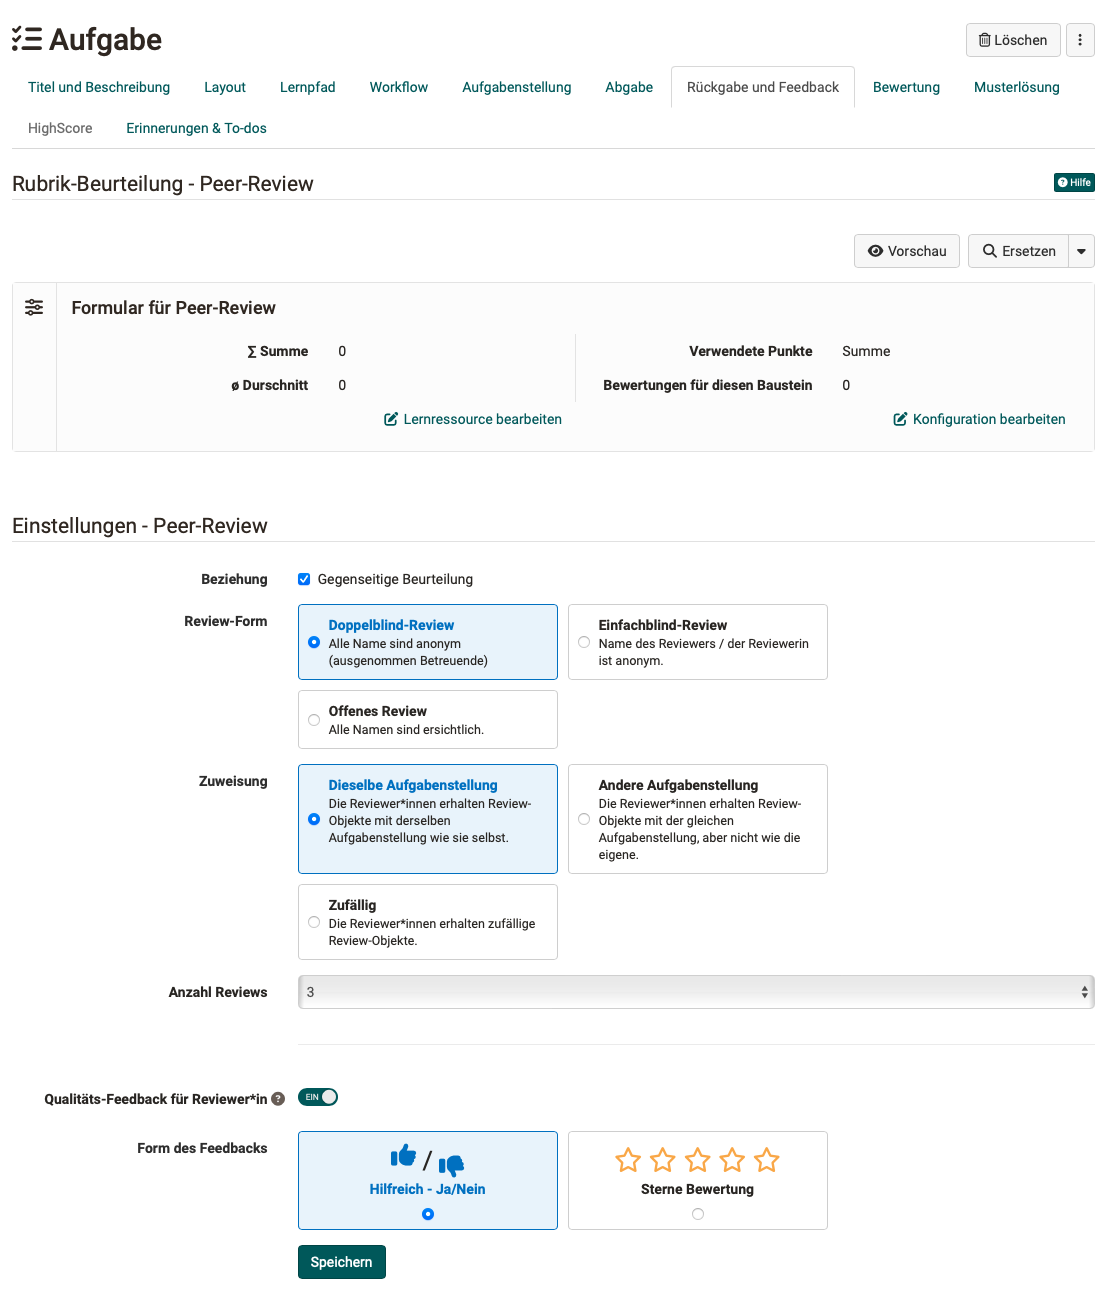
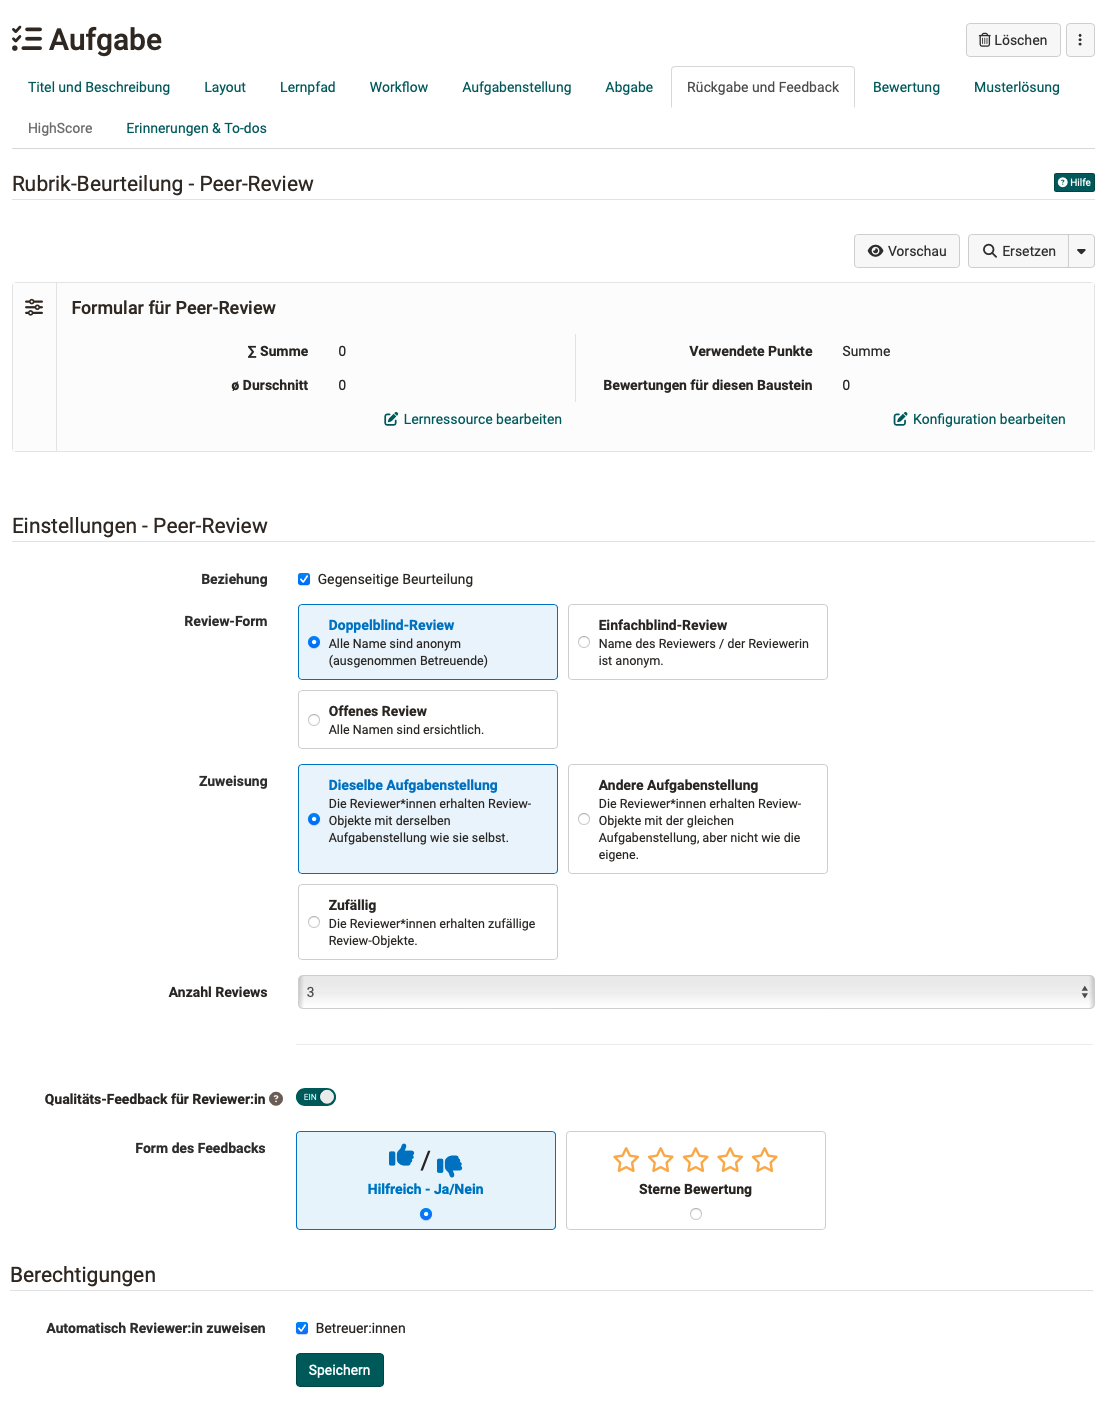
BenutzerHB: Update Peer-Review

diff --git a/sites/manual_user/docs/learningresources/Course_Element_Task.de.md b/sites/manual_user/docs/learningresources/Course_Element_Task.de.md
@@ -22,7 +22,7 @@ Die Erstellung und Konfiguration einer Aufgabe erfolgt wie bei allen Kursbaustei
 
 ![course_element_task_tabs_v1_de.png](assets/course_element_task_tabs_v1_de.png){ class="shadow lightbox"}
 
-!!! note "Quick Links"
+!!! note "Quick Links: Aufgabe erstellen (Perspektive Autor:in)"
 
     * [Tab Titel und Beschreibung](#title)<br> Allgemeine Angaben über den Kursbaustein
     * [Tab Layout](#layout)<br>Allgemeine Einstellungen im Layout
@@ -41,14 +41,16 @@ Die Erstellung und Konfiguration einer Aufgabe erfolgt wie bei allen Kursbaustei
 
 Die Angaben über den Kursbaustein entsprechen denen, wie sie in allen Kursbausteinen enthalten sind. 
 
-[nach oben ^](#create_task)
+[nach oben (Perspektive Autor:in) ^](#create_task)<br>
+[Seitenanfang ^](#course_element_task)
 
 
 ### Tab "Layout“  {: #layout}
 
 Die Optionen zum Layout entsprechen denen, wie sie in allen Kursbausteinen enthalten sind. 
 
-[nach oben ^](#create_task)
+[nach oben (Perspektive Autor:in) ^](#create_task)<br>
+[Seitenanfang ^](#course_element_task)
 
 
 ### Tab "Lernpfad“ {: #learningpath}
@@ -76,7 +78,8 @@ Im Tab "Lernpfad" wird auch definiert, welches Kriterium erfüllt sein muss, dam
 * **Bestanden**: Der User hat die im Tab "Bewertung" konfigurierten Anforderungen an "Bestanden" erfüllt bzw. die Aufgabe wurde manuell vom Betreuer auf bestanden gesetzt.
 * **Durchführung erledigt**: Alle Schritte des Aufgabenflows wurden durchlaufen.
 
-[nach oben ^](#create_task)
+[nach oben (Perspektive Autor:in) ^](#create_task)<br>
+[Seitenanfang ^](#course_element_task)
 
 
 
@@ -119,7 +122,8 @@ Die differenzierte Zuordnung der Personen erfolgt allerdings bei geschlossenem K
 
     Wird jedoch z.B. die Aufgabenstellung nachträglich hinzugefügt und ein/e Teilnehmer:in ist im persönlichen Workflow bereits weiter fortgeschritten, so muss nachträglich keine Aufgabe mehr ausgewählt werden.  
 
-[nach oben ^](#create_task)
+[nach oben (Perspektive Autor:in) ^](#create_task)<br>
+[Seitenanfang ^](#course_element_task)
 
 
 ### Tab "Aufgabenstellung“  {: #assignment}
@@ -161,7 +165,8 @@ Es folgt keine automatische Änderung. Der Teilnehmer erhält nun aber die Mögl
 
 ![Daten zurücksetzen User](assets/Aufgabe_User_Daten_zurücksetzen.png)
 
-[nach oben ^](#create_task)
+[nach oben (Perspektive Autor:in) ^](#create_task)<br>
+[Seitenanfang ^](#course_element_task)
 
 
 
@@ -200,7 +205,8 @@ Darüber hinaus können Sie auch die minimale und maximale Anzahl von Dokumenten
 
 Aktivieren Sie die E-Mail Bestätigung damit Personen, die eine Aufgabe abgegeben haben eine entsprechende E-Mail erhalten. Der vorformulierte E-Mailtet kann bei Bedarf weiter angepasst werden. 
 
-[nach oben ^](#create_task)
+[nach oben (Perspektive Autor:in) ^](#create_task)<br>
+[Seitenanfang ^](#course_element_task)
 
 
 
@@ -228,9 +234,11 @@ Auch eine Rückmeldung an die Reviewer:innen kann ermöglicht werden (Hilfreich?
 
 ![course_element_task_fb_v1_de.png](assets/course_element_task_fb_v1_de.png){ class="shadow lightbox" }
 
+Damit neben Kursbesitzer:innen auch Betreuer:innen die automatische Reviewer-Zuweisung auslösen können, muss die entsprechende Option im Tab "Rückgabe und Feedback", Abschnitt "Berechtigungen" gewählt werden.
 
 
-[nach oben ^](#create_task)
+[nach oben (Perspektive Autor:in) ^](#create_task)<br>
+[Seitenanfang ^](#course_element_task)
 
 
 
@@ -254,7 +262,8 @@ Optional können sie noch die Möglichkeit für individuelle Kommentare oder ind
 #### Hinweise
 Wenn Sie die erweiterte Konfiguration aufklappen stehen noch weitere Konfigurationen zur Verfügung. Hier können Sie noch Hinweistexte für alle Lernenden und/oder für alle Betreuenden hinterlegen. 
 
-[nach oben ^](#create_task)
+[nach oben (Perspektive Autor:in) ^](#create_task)<br>
+[Seitenanfang ^](#course_element_task)
 
 
 
@@ -278,7 +287,8 @@ Per Voreinstellung ist die Musterlösung erst sichtbar, wenn die vom Teilnehmer 
 
     Sollen die Teilnehmenden vorab bereits Hilfestellungen zur Bearbeitung der Aufgabe erhalten, laden Sie diese zusammen mit der Aufgabenstellung als ZIP-Dokument hoch oder nutzen Sie die das Mitteilungsfeld (siehe Tab "Aufgabenstellung").
 
-[nach oben ^](#create_task)
+[nach oben (Perspektive Autor:in) ^](#create_task)<br>
+[Seitenanfang ^](#course_element_task)
 
 
 
@@ -294,7 +304,8 @@ Voraussetzung ist, dass für die Aufgabe im Tab "Bewertung" die Vergabe von Punk
 
 Weitere Informationen zu diesem Tab, der in den meisten Assessment Kursbausteinen zur Verfügung steht, finden Sie [hier](../learningresources/Course_Elements.de.md).
 
-[nach oben ^](#create_task)
+[nach oben (Perspektive Autor:in) ^](#create_task)<br>
+[Seitenanfang ^](#course_element_task)
 
 
 
@@ -312,7 +323,8 @@ Weitere Informationen zu To-dos finden Sie [hier](../basic_concepts/To_Dos_Basic
 
     Ob auch Betreuende To-dos bearbeiten dürfen wird in den Einstellungen der Kurs-Administration definiert. Gehen Sie dafür in den Tab "Optionen" und aktivieren Sie den entsprechenden Haken.
     
-  [nach oben ^](#create_task)
+[nach oben (Perspektive Autor:in) ^](#create_task)<br>
+[Seitenanfang ^](#course_element_task)
 
 
 !!! info "Hinweis"
@@ -322,18 +334,31 @@ Weitere Informationen zu To-dos finden Sie [hier](../basic_concepts/To_Dos_Basic
 
 ---
 
-## Aufgabe erledigen (Perspektive Kursteilnehmer:in)
+## Aufgabe erledigen (Perspektive Kursteilnehmer:in)  {: #process_task}
 
 Alle Schritte einer Aufgabe (Workflow) zeigen sich für Kursteilnehmer:innen direkt im Kursbaustein, je nach Konfiguration des Kursbausteins. Nach Erledigung eines Schrittes wird der nächste Schritt angezeigt und zugänglich.
  
 ![course_element_task_participant_view1_v1_de.png](assets/course_element_task_participant_view1_v1_de.png){ class="shadow lightbox" }
 
 
-!!!in  "Tipp"
+!!! note "Quick Links: Aufgabe erledigen (Perspektive Kursteilnehmer:in)"
+
+    * [Zugewiesene Aufgabe herunterladen](#process_task_download)
+    * [Lösung abgeben](#process_task_solution)
+    * [Rückgabe und Feedback](#process_task_feedback)
+    * [Ergebnisse des Peer-Reviews ansehen](#process_task_view_reviews)
+    * [Aufgabe überarbeiten](#process_task_rework)
+    * [Musterlösung betrachten](#process_task_view_example)
+    * ["Bewertung" des Betreuers lesen](#process_task_view_coach_assessment)
+    
+
+!!! info  "Tipp"
 
     Abonnieren Sie den jeweiligen Aufgabenbaustein um schnell per Mail über Änderungen informiert zu werden.
 
-### Zugewiesene Aufgabe herunterladen
+
+
+### Zugewiesene Aufgabe herunterladen {: #process_task_download}
 
 Je nach Konfiguration stehen im Schritt **"Zuweisung Aufgabenstellung"** eine oder mehrere Aufgaben zur Auswahl oder eine Aufgabe wird Ihnen automatisch zugewiesen. Wenn bei mehreren Aufgaben der Titel der Aufgabendatei verlinkt ist, können Sie die Aufgabenstellung vor der Auswahl ansehen. Wenn Sie nur die Schaltfläche "Wählen" haben, können Sie die Aufgabe nicht im Vorfeld ansehen. Eine automatische Zuweisung einer Aufgabe erfolgt direkt sobald Sie die Aufgabe vor Ablauf einer eventuellen Abgabedeadline anklicken.
 
@@ -341,7 +366,11 @@ Wenn Sie eine Aufgabe gewählt haben oder Ihnen eine Aufgabe automatisch zugewie
 
 Es ist auch möglich, dass Ihre Lehrperson die Aufgabenstellung nicht in dem Kursbaustein "Aufgabe" hinterlegt hat, sondern einen anderen Ort z.B. einen anderen Kursbaustein, einer HTML-Seite,  eine externe Webseite gewählt hat oder die Aufgabenstellung mündlich in Präsenz oder in einem Online-Meeting gestellt hat. In diesem Fall erscheint der Abschnitt "Zuweisung Aufgabenstellung" nicht.
 
-### Lösung abgeben
+[nach oben (Perspektive Kursteilnehmer:in) ^](#process_task)<br>
+[Seitenanfang ^](#course_element_task)
+
+
+### Lösung abgeben {: #process_task_solution}
 
 Im Bereich **"Abgabe"** haben Sie die Möglichkeit Ihre Lösung einzureichen. Je nach Konfiguration durch die Lehrperson können sie entweder Dokumente hochladen, Dateien mit dem OpenOlat Editor erstellen oder auch  kurze Audio- und Video-Aufnahmen direkt in OpenOlat erstellen.  
 
@@ -352,7 +381,11 @@ Laden Sie Ihre Lösung hoch bzw. erstellen Sie sie direkt in OpenOlat und das Do
 
 Im Abgabe-Schritt, der nun mit einem grünen Häkchen als erledigt markiert wird, erhalten Sie eine Übersicht über abgegebenen Dateien. Sie können sich die Dateien zwar noch ansehen aber keine Änderungen mehr vornehmen.
 
-### Rückgabe und Feedback 
+[nach oben (Perspektive Kursteilnehmer:in) ^](#process_task)<br>
+[Seitenanfang ^](#course_element_task)
+
+
+### Rückgabe und Feedback {: #process_task_feedback}
 
 Wenn Sie noch _keine_ Einreichung vorgenommen haben, und der Betreuer keine Rückmeldung bereitgestellt hat, ist dieser Bereich leer.
 
@@ -368,37 +401,77 @@ Wenn Ihre Bearbeitung nicht ausreichend war und der Betreuer eine Überarbeitung
 
 ![Info: Die Abgabe wurde zur Überarbeitung zurückgewiesen](assets/Aufgabe_Rueckgabe_Feedback_zurueckgewiesen.png)
 
+[nach oben (Perspektive Kursteilnehmer:in) ^](#process_task)<br>
+[Seitenanfang ^](#course_element_task)
 
-### Ergebnisse des Peer-Reviews ansehen
+
+### Ergebnisse des Peer-Reviews ansehen {: #process_task_view_reviews}
 
 Wurde ein Peer-Review vorgesehen, sehen Sie eine Übersicht über Ihre vergebenen und erhaltenen Beurteilungen.
 
 ![course_element_task_participant_peer1_v1_de.png](assets/course_element_task_participant_peer1_v1_de.png){ class="shadow lightbox" }
 
+[nach oben (Perspektive Kursteilnehmer:in) ^](#process_task)<br>
+[Seitenanfang ^](#course_element_task)
 
 
-### Aufgabe überarbeiten
+### Aufgabe überarbeiten {: #process_task_rework}
 
 Wenn Sie eine Überarbeitung vornehmen müssen, gehen Sie wie unter "Lösung abgeben" (Abgabe) erläutert vor. Im Abschnitt **"Überarbeitung"** kann es auch sein, dass Ihr Betreuer Ihnen Ihre Arbeit mehrfach zur Korrektur zurückgibt.
 
 Sobald der Betreuer die Aufgabe als gelöst ansieht, wird er die Überarbeitungsperiode schliessen. Zu jedem Zeitpunkt sehen Sie welche Dokumente von Ihnen und Ihrem Betreuer abgegeben wurden und können diese einsehen.
 
-### Musterlösung betrachten
+[nach oben (Perspektive Kursteilnehmer:in) ^](#process_task)<br>
+[Seitenanfang ^](#course_element_task)
+
+
+### Musterlösung betrachten {: #process_task_view_example}
 
 Ihr Dozent kann der Aufgabe eine **Musterlösung** anfügen, welche zu einem von ihm festgelegten Zeitpunkt sichtbar wird, aber immer erst _nachdem_ ihre Lösung vom Betreuer akzeptiert wurde. Klicken Sie auf den Dateinamen bzw. den Button "Musterlösungen herunterladen", um die Musterlösung anzuschauen oder herunterzuladen.
 
-### "Bewertung" des Betreuers lesen
+[nach oben (Perspektive Kursteilnehmer:in) ^](#process_task)<br>
+[Seitenanfang ^](#course_element_task)
+
+
+### "Bewertung" des Betreuers lesen {: #process_task_view_coach_assessment}
 
 Der Bereich **Bewertung** umfasst zum einen automatisch generierte Informationen der Leistungsübersicht mit Status,  Punktestand, Einstufung der gewählten Bewertungsskala, je nach Konfiguration des Kursbausteins. Zum anderen können Betreuende in dem Bereich Bewertung ein Feedback im Kommentarfeld sowie (Bewertungs-)dokumente hinterlegen. 
 
 ![Bewertung User Sicht](assets/Aufgabe_Bewertung_TN.png)
 
+[nach oben (Perspektive Kursteilnehmer:in) ^](#process_task)<br>
+[Seitenanfang ^](#course_element_task)
+
+
 ---
 
-## Aufgaben betreuen (Perspektive Betreuer:in)
+## Aufgaben betreuen (Perspektive Betreuer:in) {: #coach_task}
 
 
-### Peer-Review betreuen {: #coach_peer_review}
+!!! note "Quick Links: Aufgaben betreuen (Perspektive Betreuer:in)"
+
+    * [Regeln eines Peer-Reviews](#coach_task_peer_review_rules)
+    * [Peer-Review betreuen](#coach_task_peer_review)
+    * [Manuelle Zuweisung von Reviewer:innen](#coach_task_peer_review_assign_manually)
+    * [Automatische Zuweisung von Reviewer:innen](#coach_task_peer_review_assign_automatically)
+
+
+
+### Regeln eines Peer-Reviews {: #coach_task_peer_review_rules}
+
+Bei einem Peer-Review geben sich die Teilnehmer:innen eines Kurses gegenseitig ein Feedback oder eine Bewertung. Das Feedback kann allgemeiner Art sein (z.B. in einem Textfeld) oder zusätzlich auch eine Bewertung mit Punkten umfassen.
+
+Dabei muss nicht von jedem/jeder Teilnehmer:in ein Review aller anderen Teilnehmer:innen gemacht werden. Es kann bestimmt werden, für wieviele andere Personen ein Review gemacht werden muss.
+
+Ob die Reviewer die Namen der zugewiesenen Personen sehen, nur ihr eigener Name als Reviewer:in ersichtlich ist oder vollständig offen gelegt wird, wer wen reviewt, kann ebenfalls konfiguriert werden.
+
+Als Betreuer:in überwachen Sie die gegenseitigen Reviews und können ggf. auch eingreifen.
+
+[nach oben (Perspektive Betreuer:in) ^](#coach_task)<br>
+[Seitenanfang ^](#course_element_task)
+
+
+### Peer-Review betreuen {: #coach_task_peer_review}
 
 Der Ablauf eines Peer-Reviews wurde von dem/der Kursbesitzer:in festgelegt. Entsprechend finden Sie als Betreuer:in die Optionen für Ihre Betreuungsaufgabe vor.
 
@@ -408,6 +481,37 @@ Der Ablauf eines Peer-Reviews wurde von dem/der Kursbesitzer:in festgelegt. Ents
 ![course_element_task_coach_peer1_v1_de.png](assets/course_element_task_coach_peer1_v1_de.png){ class="shadow lightbox" }
 
 
+
 !!! note  "Hinweis"
 
     Kursbetreuer:innen sehen nur Gruppen, in denen sie selbst Mitglied sind. Soll ein Peer-Review durch Mitglieder anderer Gruppen erfolgen, sind die Bewertungen dieser Teilnehmer:innen für Kursbetreuer:innen nicht vollständig ersichtlich.
+
+[nach oben (Perspektive Betreuer:in) ^](#coach_task)<br>
+[Seitenanfang ^](#course_element_task)
+
+
+### Manuelle Zuweisung von Reviewer:innen {: #coach_task_peer_review_assign_manually}
+
+Wenn Sie als Betreuer:in bestimmen wollen, wer von wem ein Review erhält, können Sie die Zurordnung selbst vornehmen.
+
+![course_element_task_peer-review_assign_reviewer_manually_v1_de.png](assets/course_element_task_peer-review_assign_reviewer_manually_v1_de.png){ class="shadow lightbox" }
+
+[nach oben (Perspektive Betreuer:in) ^](#coach_task)<br>
+[Seitenanfang ^](#course_element_task)
+
+
+### Automatische Zuweisung von Reviewer:innen {: #coach_task_peer_review_assign_automatically}
+
+Die Zuordnung von Reviewer:innen zu Teilnehmer:innen kann auch durch OpenOlat automatisch vorgenommen werden. Sie erfolgt gemäss den eingestellten Regeln. (Z.B. definierte Anzahl der Personen, die pro Teilnehmer:in zu reviewen sind.) Auch wenn vorab schon manuelle Zuordnungen durch Betreuer:innen gemacht wurden, werden diese bei den verbleibenden automatischen Zuordnungen berücksichtigt.
+
+Der automatische Zuordnungsprozess muss durch Kursbesitzer:innen oder Kursbetreuer:innen ausgelöst werden.
+
+![course_element_task_peer-review_assign_reviewer_automatically_v1_de.png](assets/course_element_task_peer-review_assign_reviewer_automatically_v1_de.png){ class="shadow lightbox" }
+
+!!! info "Hinweis"
+
+    Damit auch Betreuer:innen die automatische Reviewer-Zuweisung auslösen können, muss die entsprechende Option von dem/der Kursbesitzer:in eingerichtet worden sein.
+
+
+[nach oben (Perspektive Betreuer:in) ^](#coach_task)<br>
+[Seitenanfang ^](#course_element_task)
